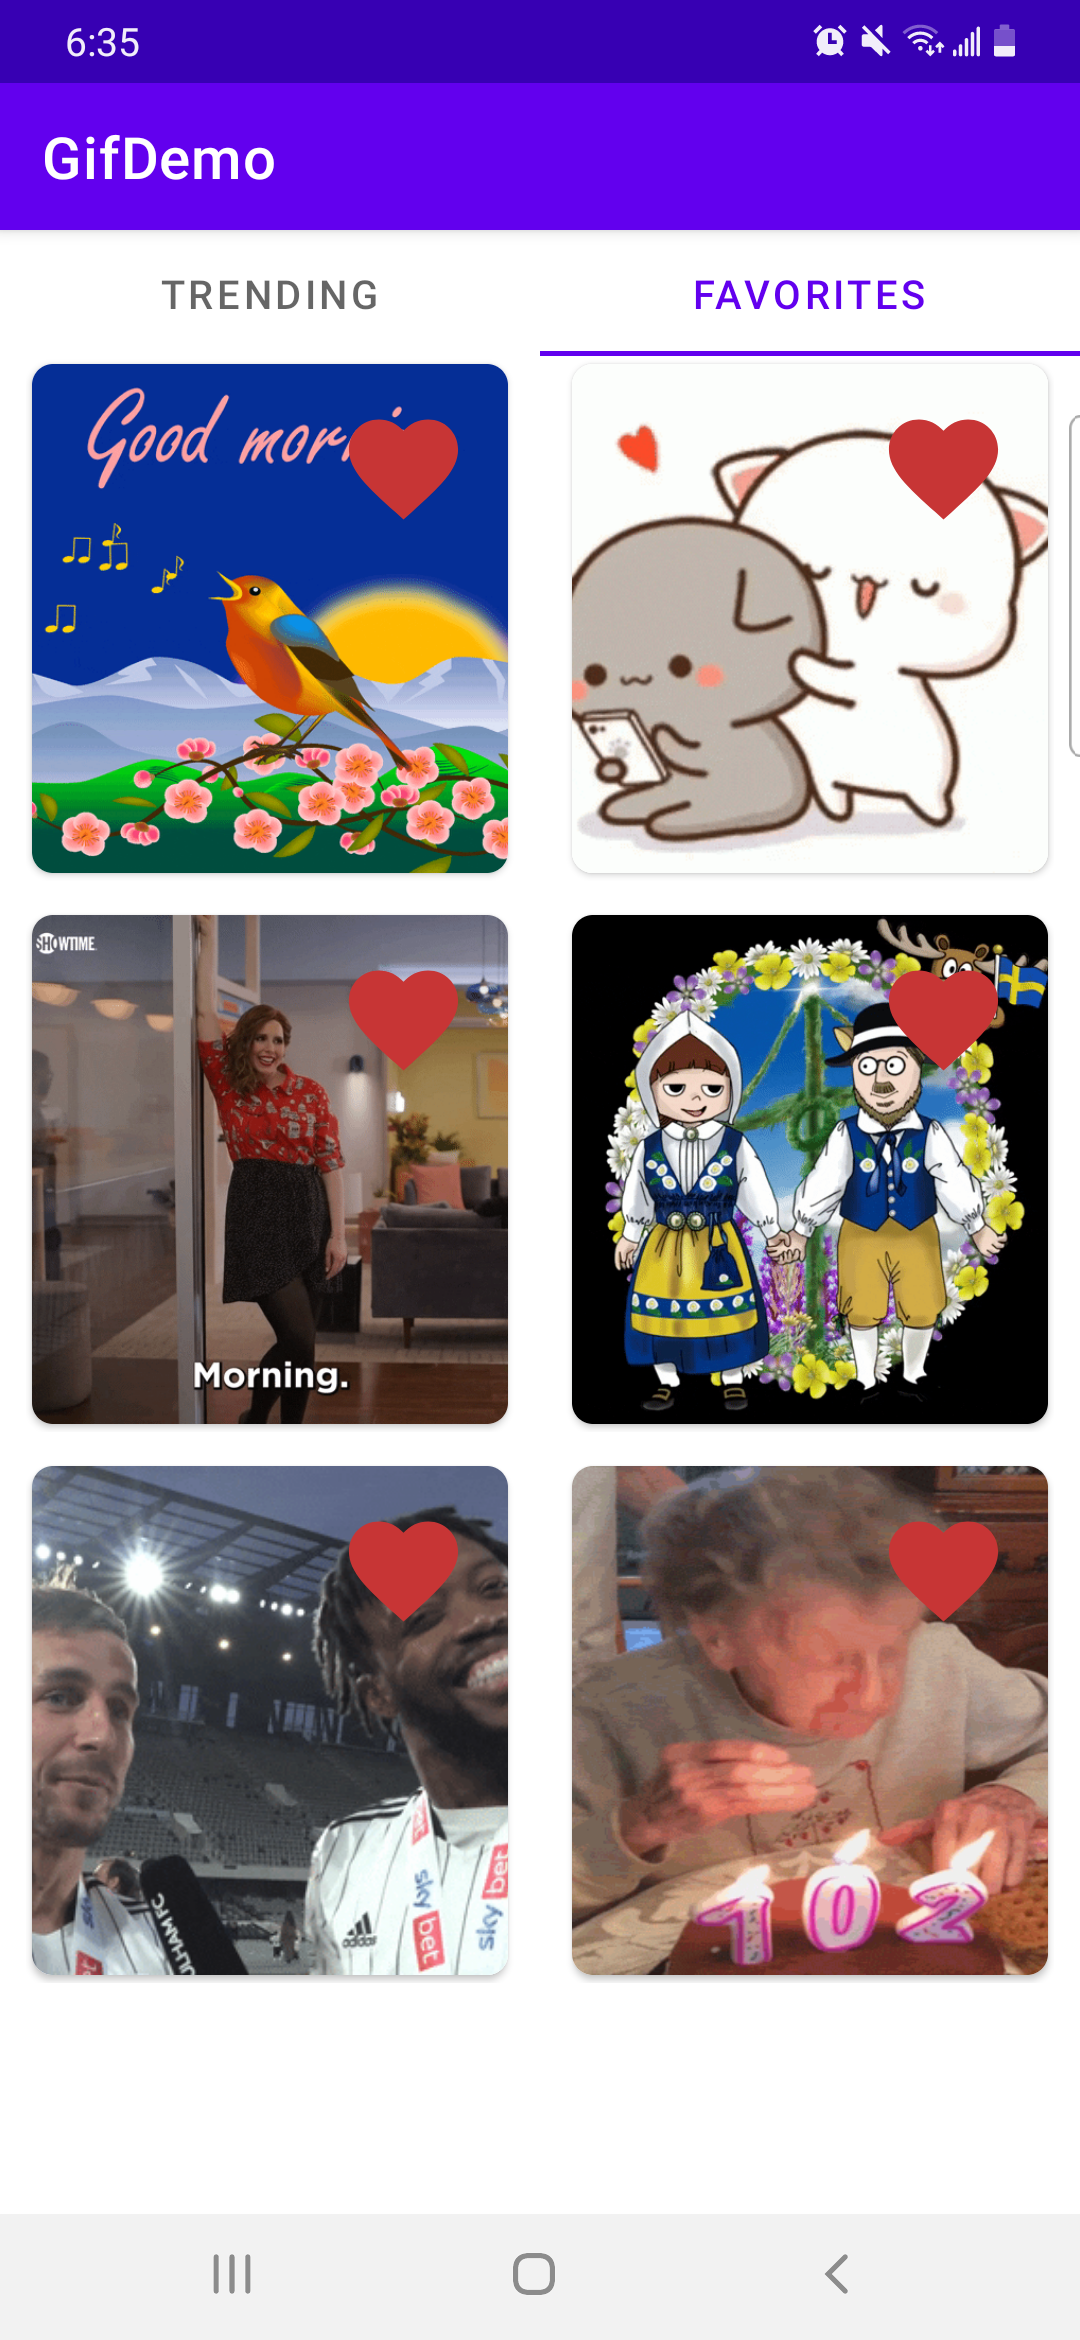
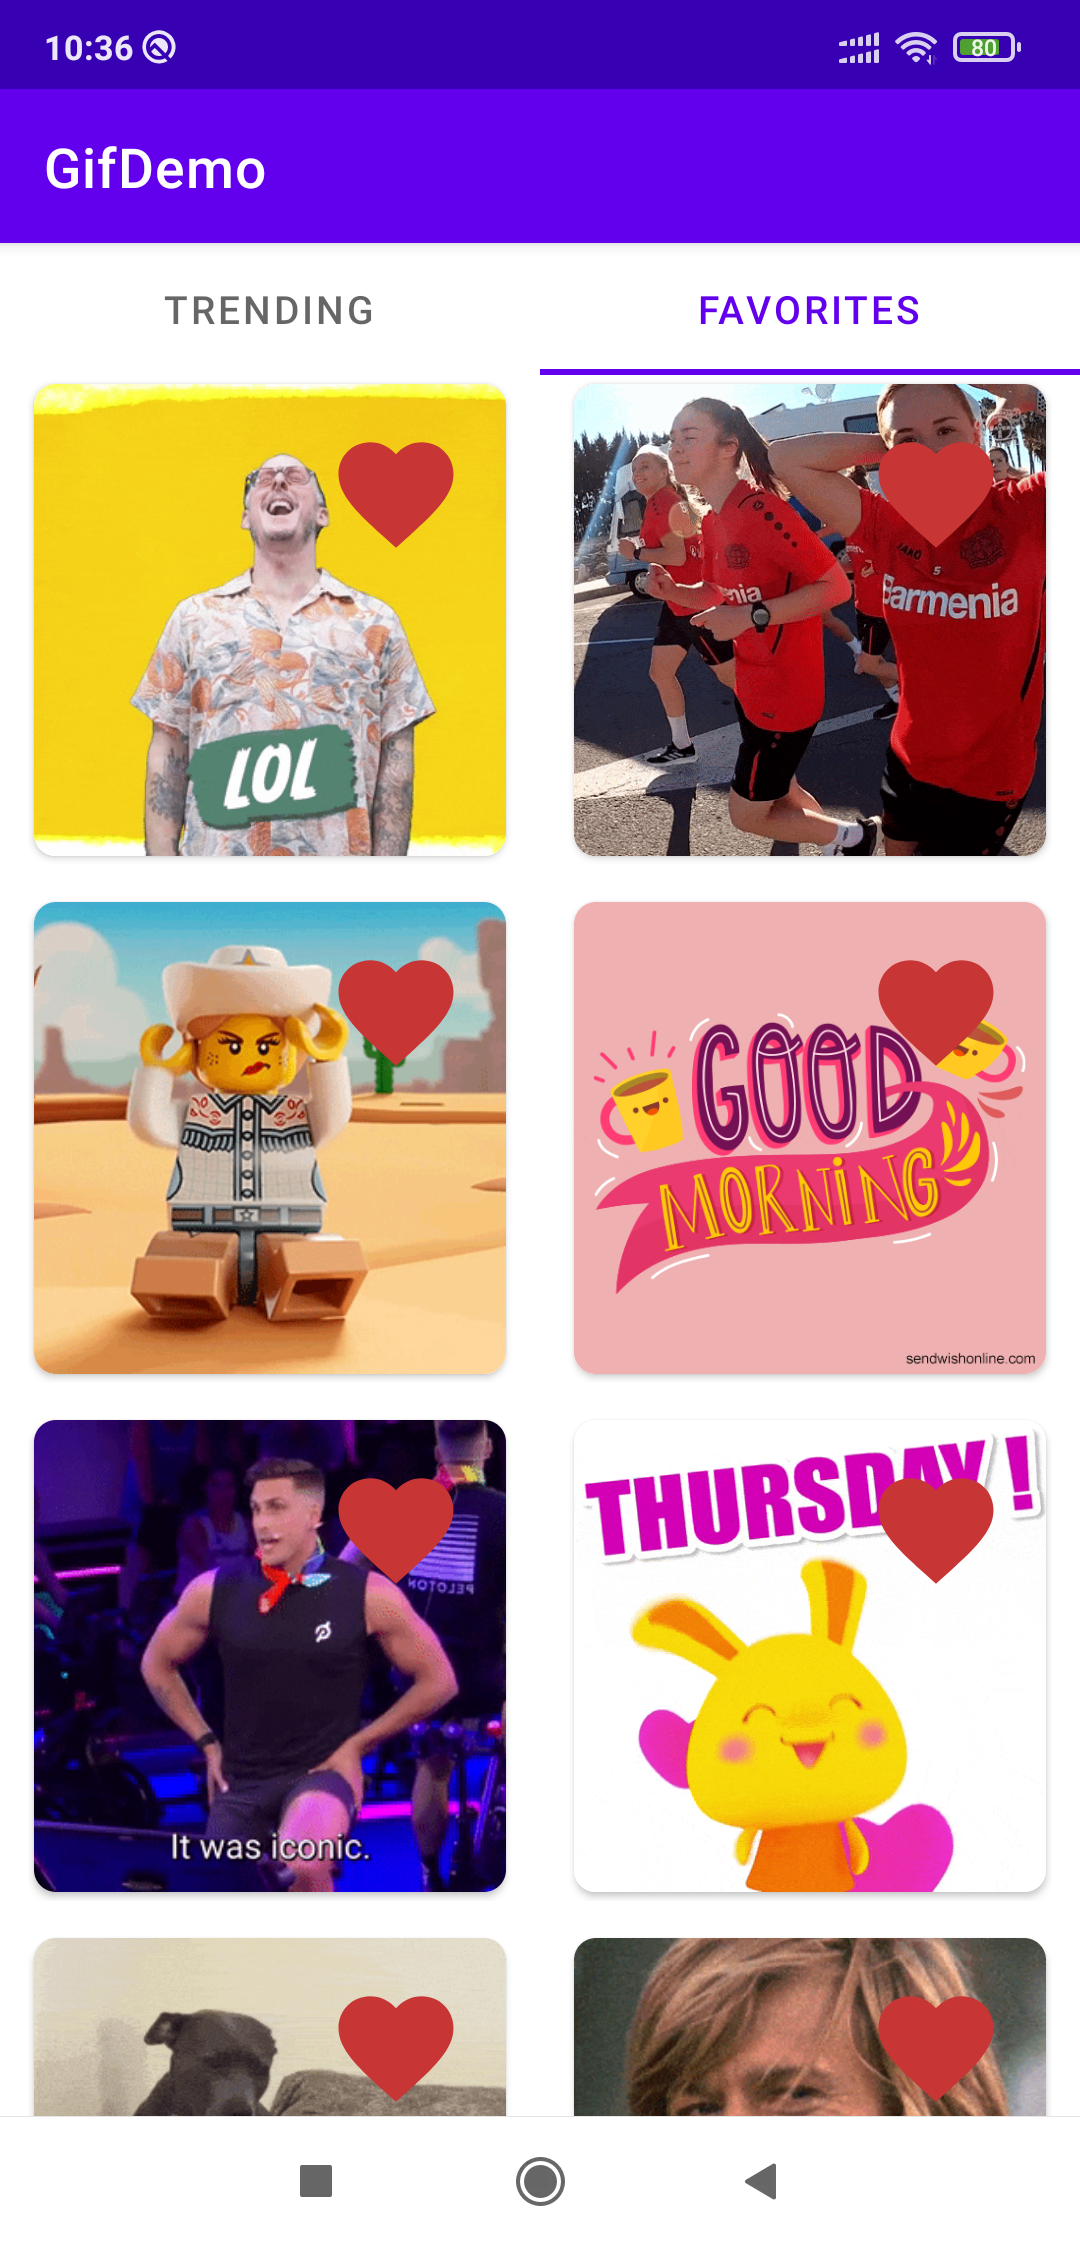
- Internet Connection check on lazy loading\n -Gif downsized for faster loading, - set dynamic height width for gif on trending and search

diff --git a/app/src/main/java/com/giphy/gifdemo/ui/trending/TrendingFragment.kt b/app/src/main/java/com/giphy/gifdemo/ui/trending/TrendingFragment.kt
@@ -6,16 +6,20 @@ import android.util.Log
 import android.view.LayoutInflater
 import android.view.View
 import android.view.ViewGroup
+import androidx.core.view.isVisible
 import androidx.fragment.app.Fragment
 import androidx.fragment.app.activityViewModels
 import androidx.lifecycle.lifecycleScope
+import androidx.paging.CombinedLoadStates
 import androidx.paging.LoadState
-import com.giphy.gifdemo.R
+import com.giphy.gifdemo.adapter.BaseLoadStateAdapter
 import com.giphy.gifdemo.adapter.TrendingGifAdapter
 import com.giphy.gifdemo.databinding.FragmentTrendingBinding
 import com.giphy.gifdemo.paging.GiphyDataSource
 import com.giphy.gifdemo.utils.invisible
+import com.giphy.gifdemo.utils.isConnected
 import com.giphy.gifdemo.utils.visible
+import com.giphy.gifdemo.utils.visibleIf
 import dagger.hilt.android.AndroidEntryPoint
 import kotlinx.coroutines.flow.collectLatest
 import javax.inject.Inject
@@ -56,30 +60,37 @@ class TrendingFragment : Fragment() {
 
     private fun setObservers() {
 
+
+
         lifecycleScope.launchWhenCreated {
-            gifAdapter.loadStateFlow.collectLatest {
+            gifAdapter.loadStateFlow.collectLatest { loadstate ->
                 binding.swipeToRefresh.isRefreshing = false
-                when (it.refresh) {
+
+                when (loadstate.refresh) {
                     is LoadState.Loading -> {
+                        Log.e("TAG","Loading")
                         binding.progressLoading.visible()
                         binding.txtNoResultMessage.invisible()
                     }
                     is LoadState.NotLoading -> {
+
+                        Log.e("TAG","Not Loading")
+
                         binding.progressLoading.invisible()
-                        binding.txtNoResultMessage.invisible()
-                        if (gifAdapter.itemCount < 1){
+                        /*if (gifAdapter.itemCount < 1){
                             binding.txtNoResultMessage.visible()
                         }else
-                            binding.txtNoResultMessage.invisible()
+                            binding.txtNoResultMessage.invisible()*/
                     }
                     is LoadState.Error -> {
 
-                        binding.trendingList.visibility = View.GONE
+                        Log.e("TAG","Error message")
+                        binding.swipeToRefresh.isRefreshing = false
                         binding.txtNoResultMessage.visible()
                         binding.progressLoading.invisible()
                         binding.txtNoResultMessage.apply {
+                            text = error?.toString()
                             visible()
-                            text = context.getString(R.string.error_message)
                         }
                     }
 
@@ -89,7 +100,6 @@ class TrendingFragment : Fragment() {
 
         viewModel.trendingGif.observe(viewLifecycleOwner) {
             lifecycleScope.launchWhenStarted {
-                binding.progressLoading.invisible()
                 gifAdapter.submitData(it)
             }
         }
@@ -105,13 +115,18 @@ class TrendingFragment : Fragment() {
 
     }
 
+
+
+
     private fun setListeners() {
 
         binding.trendingList.adapter = gifAdapter
+        val footerAdapter = BaseLoadStateAdapter(gifAdapter)
+        binding.trendingList.adapter = gifAdapter.withLoadStateFooter(footerAdapter)
 
         binding.swipeToRefresh.setOnRefreshListener {
             binding.swipeToRefresh.isRefreshing = false
-            gifAdapter.refresh()
+            if(requireActivity().isConnected) gifAdapter.refresh()
         }
 
     }

diff --git a/app/src/main/java/com/giphy/gifdemo/utils/GifyExtentions.kt b/app/src/main/java/com/giphy/gifdemo/utils/GifyExtentions.kt
@@ -5,6 +5,9 @@ import android.content.DialogInterface
 import android.view.View
 import androidx.annotation.StyleRes
 import com.google.android.material.dialog.MaterialAlertDialogBuilder
+import android.net.ConnectivityManager
+import android.net.NetworkCapabilities
+import android.os.Build
 
 /**
  * @Author: Amit Patoliya
@@ -14,9 +17,20 @@ fun View.visible() {
      visibility = View.VISIBLE
 
 }
+fun View.gone() {
+    visibility = View.GONE
+}
 
 fun View.invisible() {
     visibility = View.INVISIBLE
+}
+
+fun View.visibleIf(isShown: Boolean) {
+    if (isShown) {
+        visible()
+    } else {
+        gone()
+    }
 }
 
 
@@ -56,3 +70,26 @@ fun MaterialAlertDialogBuilder.neutralButton(
 ) {
     this.setNeutralButton(text) { dialogInterface, _ -> handleClick(dialogInterface) }
 }
+
+
+// No internet connection extension
+val Context.isConnected: Boolean
+    get() {
+        val connectivityManager = this.getSystemService(Context.CONNECTIVITY_SERVICE) as ConnectivityManager
+        return when {
+            Build.VERSION.SDK_INT >= Build.VERSION_CODES.M -> {
+                val nw = connectivityManager.activeNetwork ?: return false
+                val actNw = connectivityManager.getNetworkCapabilities(nw) ?: return false
+                when {
+                    actNw.hasTransport(NetworkCapabilities.TRANSPORT_WIFI) -> true
+                    actNw.hasTransport(NetworkCapabilities.TRANSPORT_CELLULAR) -> true
+                    else -> false
+                }
+            }
+            else -> {
+                // Use depreciated methods only on older devices
+                val nwInfo = connectivityManager.activeNetworkInfo ?: return false
+                nwInfo.isConnected
+            }
+        }
+    }

diff --git a/app/src/main/java/com/giphy/gifdemo/adapter/TrendingGifAdapter.kt b/app/src/main/java/com/giphy/gifdemo/adapter/TrendingGifAdapter.kt
@@ -7,12 +7,12 @@ import android.widget.ImageView
 import androidx.paging.PagingDataAdapter
 import androidx.recyclerview.widget.DiffUtil
 import androidx.recyclerview.widget.RecyclerView
-import com.bumptech.glide.Glide
 import com.giphy.gifdemo.R
 import com.giphy.gifdemo.database.AppDatabase
 import com.giphy.gifdemo.database.models.FavoritesGifBean
 
 import com.giphy.gifdemo.databinding.ItemGifBinding
+import com.giphy.gifdemo.di.GlideApp
 import com.giphy.gifdemo.models.Data
 import javax.inject.Inject
 
@@ -36,11 +36,15 @@ class TrendingGifAdapter @Inject constructor(
     override fun onBindViewHolder(holder: ViewHolder, position: Int) {
 
         with(holder){
-            var url = getItem(position)?.images?.original?.url
+            var url = getItem(position)?.images?.downsized?.url
+            var height = getItem(position)?.images?.downsized?.height
+            var width = getItem(position)?.images?.downsized?.width
             binding.apply {
-                Glide.with(root)
+                itemGifFile.setDimensions(height?:0,width?:0)
+                GlideApp.with(root)
                     .asGif()
                     .load(url)
+                    .fitCenter()
                     .placeholder(R.drawable.ic_place_holder)
                     .into(itemGifFile)
             }
@@ -89,15 +93,5 @@ class TrendingGifAdapter @Inject constructor(
         }
 
     }
-
-
-}
-
-
-
-private fun ImageView.setFavoriteImage(it: String, mydb: AppDatabase): Boolean {
-
-        return mydb.getFavoriteData().checkIsFavorite(id = it)
-
 
 }

diff --git a/app/src/main/java/com/giphy/gifdemo/adapter/NetworkStateItemViewHolder.kt b/app/src/main/java/com/giphy/gifdemo/adapter/NetworkStateItemViewHolder.kt
@@ -1,0 +1,32 @@
+package com.giphy.gifdemo.adapter
+
+import androidx.core.view.isVisible
+import androidx.paging.LoadState
+import androidx.recyclerview.widget.RecyclerView
+import com.giphy.gifdemo.databinding.LayoutNetworkStateItemBinding
+import com.giphy.gifdemo.utils.visibleIf
+
+/**
+ * Created by Amit Patoliya
+ */
+class NetworkStateItemViewHolder(
+    binding: LayoutNetworkStateItemBinding,
+    private val retryCallback: () -> Unit
+) : RecyclerView.ViewHolder(binding.root) {
+
+    private val progressBar = binding.progressView
+    private val errorMessage = binding.textViewError
+    private val retry = binding.buttonRetry.also {
+        it.setOnClickListener {
+            retryCallback.invoke()
+        }
+    }
+
+    fun bind(loadState: LoadState) {
+        progressBar.isVisible = loadState is LoadState.Loading
+        retry.visibleIf(loadState is LoadState.Error)
+        errorMessage.isVisible = !(loadState as? LoadState.Error)?.error?.message.isNullOrBlank()
+        errorMessage.text = (loadState as? LoadState.Error)?.error?.message
+    }
+
+}

diff --git a/app/src/main/java/com/giphy/gifdemo/adapter/BaseLoadStateAdapter.kt b/app/src/main/java/com/giphy/gifdemo/adapter/BaseLoadStateAdapter.kt
@@ -1,0 +1,34 @@
+package com.giphy.gifdemo.adapter
+
+import android.view.LayoutInflater
+import android.view.ViewGroup
+import androidx.paging.LoadState
+import androidx.paging.LoadStateAdapter
+import androidx.paging.PagingDataAdapter
+import com.giphy.gifdemo.databinding.LayoutNetworkStateItemBinding
+
+/**
+ * Created by Amit Patoliya
+ */
+class BaseLoadStateAdapter(
+    private val adapter: PagingDataAdapter<*, *>
+) : LoadStateAdapter<NetworkStateItemViewHolder>() {
+
+    override fun onCreateViewHolder(
+        parent: ViewGroup,
+        loadState: LoadState
+    ): NetworkStateItemViewHolder =
+        NetworkStateItemViewHolder(
+            LayoutNetworkStateItemBinding.inflate(
+                LayoutInflater.from(parent.context),
+                parent,
+                false
+            )
+        ) {
+            adapter.retry()
+        }
+
+    override fun onBindViewHolder(holder: NetworkStateItemViewHolder, loadState: LoadState) {
+        holder.bind(loadState)
+    }
+}

diff --git a/app/src/main/java/com/giphy/gifdemo/ui/view/GifImageView.kt b/app/src/main/java/com/giphy/gifdemo/ui/view/GifImageView.kt
@@ -1,0 +1,25 @@
+package com.giphy.gifdemo.ui.view
+
+import android.content.Context
+import android.util.AttributeSet
+import androidx.appcompat.widget.AppCompatImageView
+
+/**
+ * @Author: Amit Patoliya
+ * @Date: 23/06/22
+ */
+class GifImageView(context: Context, attributeSet: AttributeSet) : AppCompatImageView(context, attributeSet) {
+
+    private var aspectRatio: Float = 1f
+
+    fun setDimensions(height: Int, width: Int) {
+        this.aspectRatio = height / width.toFloat()
+    }
+
+    override fun onMeasure(widthMeasureSpec: Int, heightMeasureSpec: Int) {
+        super.onMeasure(widthMeasureSpec, heightMeasureSpec)
+        val newHeight = (measuredWidth * aspectRatio).toInt()
+        setMeasuredDimension(measuredWidth, newHeight)
+    }
+
+}

diff --git a/app/src/main/java/com/giphy/gifdemo/ui/MainActivity.kt b/app/src/main/java/com/giphy/gifdemo/ui/MainActivity.kt
@@ -59,6 +59,8 @@ class MainActivity : AppCompatActivity() {
                 return true
             }
 
+            // It will call api when search button click
+            //TODO needs to fix it letter on
             override fun onQueryTextChange(newText: String?): Boolean {
                 if(newText!=null && newText.trim().isEmpty()){
                     viewModel.getSearchingData("")

diff --git a/app/src/main/java/com/giphy/gifdemo/adapter/FavoriteGifAdapter.kt b/app/src/main/java/com/giphy/gifdemo/adapter/FavoriteGifAdapter.kt
@@ -36,6 +36,7 @@ class FavoriteGifAdapter (
                 Glide.with(root)
                     .asGif()
                     .load(url)
+                    .centerCrop()
                     .placeholder(R.drawable.ic_place_holder)
                     .into(itemGifFile)
             }

diff --git a/app/src/main/java/com/giphy/gifdemo/di/MyAppGlideModule.kt b/app/src/main/java/com/giphy/gifdemo/di/MyAppGlideModule.kt
@@ -1,0 +1,13 @@
+package com.giphy.gifdemo.di
+
+import com.bumptech.glide.annotation.GlideModule
+import com.bumptech.glide.module.AppGlideModule
+
+/**
+ * @Author: Amit Patoliya
+ * @Date: 23/06/22
+ */
+
+
+@GlideModule
+class MyAppGlideModule : AppGlideModule()

diff --git a/app/src/main/java/com/giphy/gifdemo/models/Downsized.kt b/app/src/main/java/com/giphy/gifdemo/models/Downsized.kt
@@ -1,8 +1,8 @@
 package com.giphy.gifdemo.models
 
 data class Downsized(
-    val height: String,
+    val height: Int,
     val size: String,
     val url: String,
-    val width: String
+    val width: Int
 )
